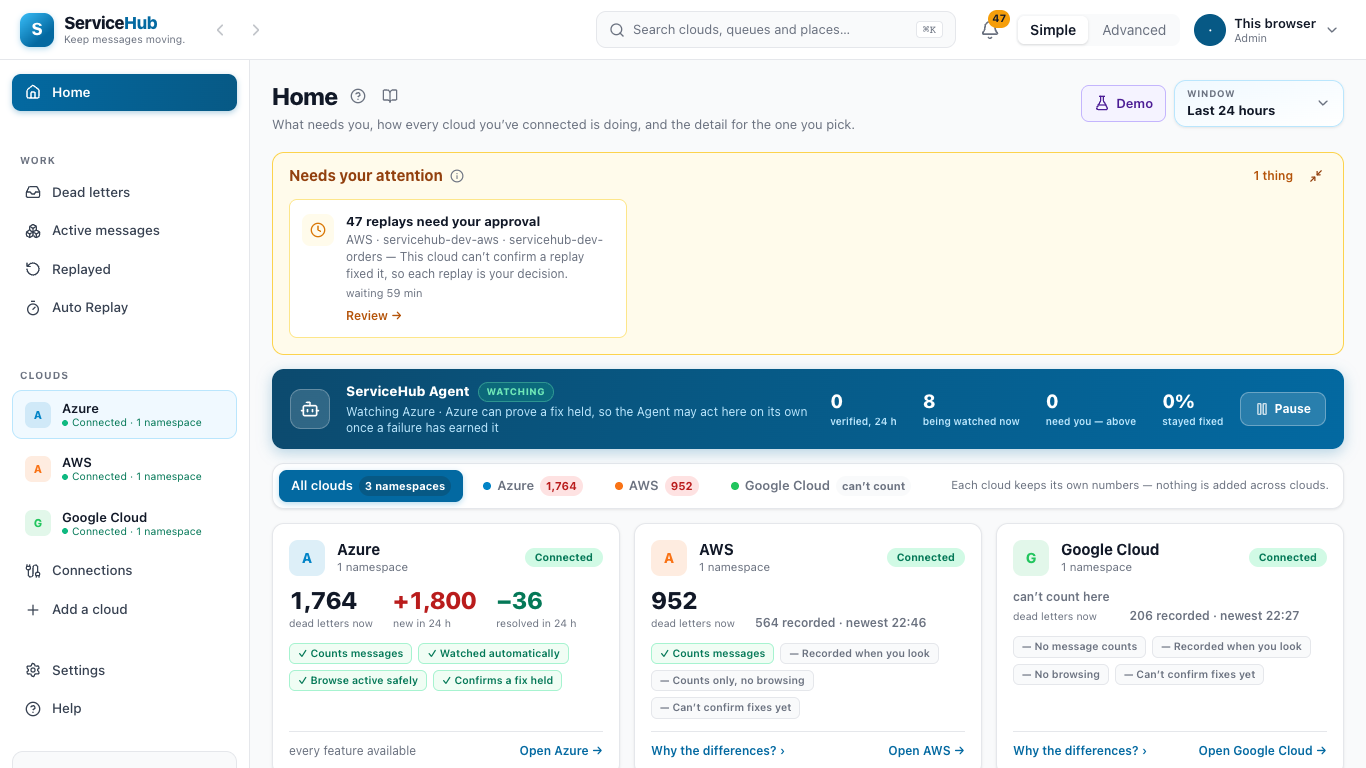
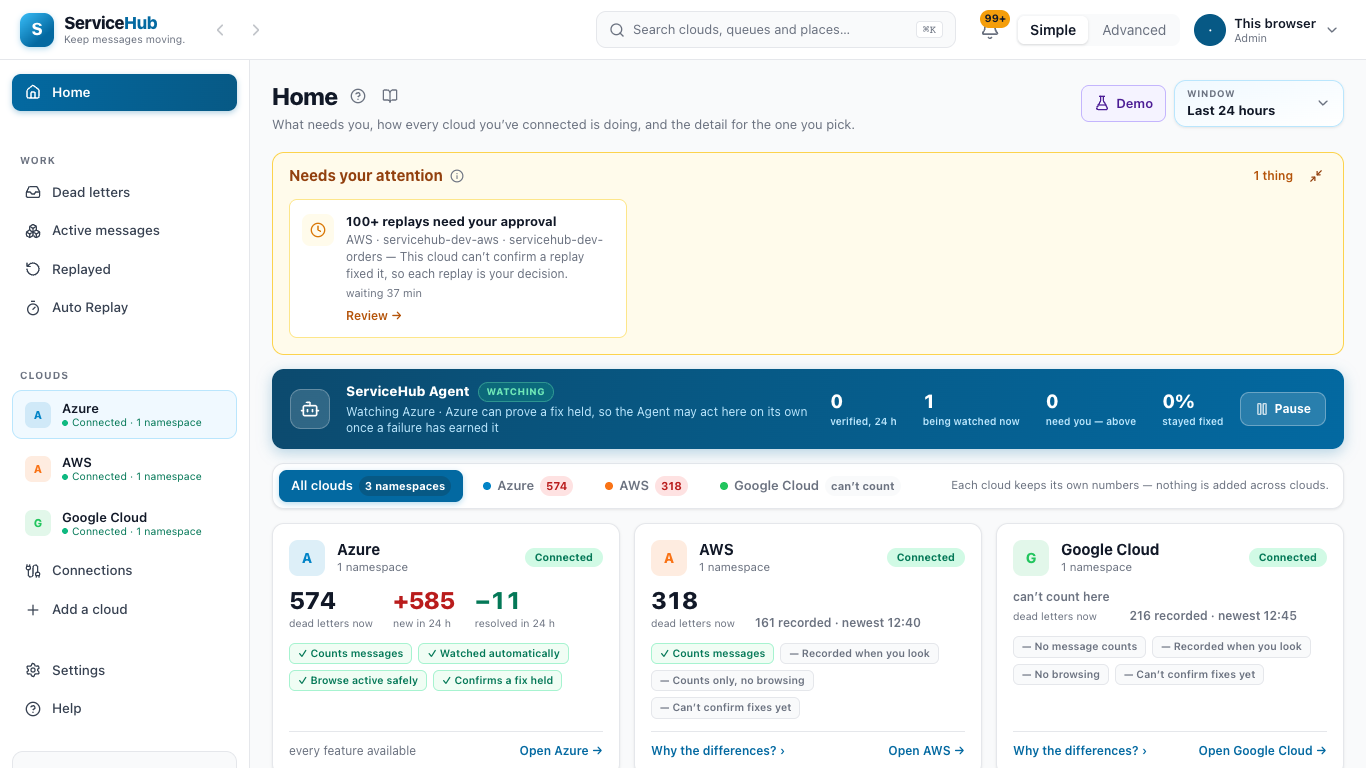
feat: enforce intent headers for rule operations and update changelog

diff --git a/apps/servicehub/src/lib/api/rules.ts b/apps/servicehub/src/lib/api/rules.ts
@@ -1,4 +1,5 @@
 import { api } from './client'
+import { Intent, withIntent } from './intentHeaders'
 import type { CloudProvider } from './namespaces'
 
 export interface Rule {
@@ -78,11 +79,11 @@ export async function fetchRuleSources(provider: CloudProvider): Promise<RuleSou
 }
 
 export async function createRule(rule: NewRule): Promise<Rule> {
-  return (await api.post<Rule>('/rules', rule)).data
+  return (await api.post<Rule>('/rules', rule, { headers: withIntent(Intent.CreateRule) })).data
 }
 
 export async function setRuleEnabled(id: number, enabled: boolean): Promise<Rule> {
-  return (await api.post<Rule>(`/rules/${id}/enabled`, { enabled })).data
+  return (await api.post<Rule>(`/rules/${id}/enabled`, { enabled }, { headers: withIntent(Intent.SwitchRule) })).data
 }
 
 export async function testRule(rule: Pick<NewRule, 'provider' | 'reason' | 'entityName' | 'signatureHash'>): Promise<RuleTest> {
@@ -91,12 +92,12 @@ export async function testRule(rule: Pick<NewRule, 'provider' | 'reason' | 'enti
 
 /** Name and pace only — what a rule matches never changes; a different failure is a new rule. */
 export async function updateRule(id: number, rule: Pick<NewRule, 'name' | 'maxPerHour' | 'waitSeconds' | 'backOff'>): Promise<Rule> {
-  return (await api.put<Rule>(`/rules/${id}`, rule)).data
+  return (await api.put<Rule>(`/rules/${id}`, rule, { headers: withIntent(Intent.UpdateRule) })).data
 }
 
 /** Deletes the rule. What it replayed stays in the ledger and the replay history. */
 export async function deleteRule(id: number): Promise<void> {
-  await api.delete(`/rules/${id}`)
+  await api.delete(`/rules/${id}`, { headers: withIntent(Intent.DeleteRule) })
 }
 
 /** The dead letters the rule matches right now and that are still waiting. Sends nothing. */
@@ -106,5 +107,5 @@ export async function fetchRuleMatches(id: number): Promise<number[]> {
 
 /** Makes rules for the most common failures no rule covers yet. Returns the rules it made. */
 export async function generateRules(provider: CloudProvider, max = 5): Promise<Rule[]> {
-  return (await api.post<Rule[]>('/rules/generate', { provider, max })).data
+  return (await api.post<Rule[]>('/rules/generate', { provider, max }, { headers: withIntent(Intent.GenerateRules) })).data
 }

diff --git a/tests/web/unit/lib/api/contract.test.ts b/tests/web/unit/lib/api/contract.test.ts
@@ -115,6 +115,11 @@ describe('changes carry the intent header the API demands', () => {
     ['purge', () => replay.purgeMessage(5, 'dup'), 'POST', '/dead-letters/5/purge'],
     ['switch on fix confirmation', () => namespaces.configureDlqObserver('n1', { enabled: true }), 'PUT', '/namespaces/n1/dlq-observer'],
     ['check fix confirmation', () => namespaces.checkDlqObserver('n1'), 'POST', '/namespaces/n1/dlq-observer/check'],
+    ['make rule', () => rules.createRule({ provider: 'azure', name: 'r' } as never), 'POST', '/rules'],
+    ['switch rule', () => rules.setRuleEnabled(3, false), 'POST', '/rules/3/enabled'],
+    ['change rule', () => rules.updateRule(3, { name: 'n', maxPerHour: 5, waitSeconds: 60, backOff: true }), 'PUT', '/rules/3'],
+    ['delete rule', () => rules.deleteRule(3), 'DELETE', '/rules/3'],
+    ['make rules', () => rules.generateRules('gcp'), 'POST', '/rules/generate'],
   ]
   it.each(changes)('%s → %s with an intent', async (_name, call, method, url) => {
     await call()

diff --git a/apps/servicehub/src/lib/api/intentHeaders.ts b/apps/servicehub/src/lib/api/intentHeaders.ts
@@ -31,6 +31,11 @@ export const Intent = {
   GrantRole: 'grant-role',
   RevokeRole: 'revoke-role',
   ConfigureDlqObserver: 'configure-dlq-observer',
+  CreateRule: 'create-rule',
+  GenerateRules: 'generate-rules',
+  SwitchRule: 'switch-rule',
+  UpdateRule: 'update-rule',
+  DeleteRule: 'delete-rule',
 } as const
 
 export type IntentValue = (typeof Intent)[keyof typeof Intent]

diff --git a/tests/backend/ServiceHub.IntegrationTests/RulesApiTests.cs b/tests/backend/ServiceHub.IntegrationTests/RulesApiTests.cs
@@ -18,9 +18,25 @@ public sealed class RulesApiTests : IDisposable
 
     public void Dispose() => Environment.SetEnvironmentVariable("RecoveryEvidence__CircuitBreakerSampleSize", null);
 
+    /// <summary>The intent header each rule write must carry (the route says which).</summary>
+    private static string? IntentFor(HttpMethod method, string url)
+    {
+        if (url.EndsWith("/test", StringComparison.Ordinal)) return null;
+        if (url.EndsWith("/generate", StringComparison.Ordinal)) return "generate-rules";
+        if (url.EndsWith("/enabled", StringComparison.Ordinal)) return "switch-rule";
+        return method.Method switch { "POST" => "create-rule", "PUT" => "update-rule", "DELETE" => "delete-rule", _ => null };
+    }
+
+    private static Task<HttpResponseMessage> Call(HttpClient client, HttpMethod method, string url, object? body = null)
+    {
+        var request = new HttpRequestMessage(method, url) { Content = body is null ? null : JsonContent.Create(body) };
+        if (IntentFor(method, url) is { } intent) request.Headers.Add("X-ServiceHub-Intent", intent);
+        return client.SendAsync(request);
+    }
+
     private static async Task<JsonElement> Send(HttpClient client, string url, object body, HttpStatusCode expected = HttpStatusCode.OK)
     {
-        var response = await client.PostAsJsonAsync(url, body);
+        var response = await Call(client, HttpMethod.Post, url, body);
         response.StatusCode.Should().Be(expected, await response.Content.ReadAsStringAsync());
         return JsonDocument.Parse(await response.Content.ReadAsStringAsync()).RootElement;
     }
@@ -68,7 +84,7 @@ public sealed class RulesApiTests : IDisposable
         var made = await Send(host.Client, "/api/v1/rules", new { provider = "azure", name = "Audit me", reason = "Timeout" }, HttpStatusCode.Created);
         var id = made.GetProperty("id").GetInt64();
         await Send(host.Client, $"/api/v1/rules/{id}/enabled", new { enabled = false });
-        (await host.Client.DeleteAsync($"/api/v1/rules/{id}")).StatusCode.Should().Be(HttpStatusCode.NoContent);
+        (await Call(host.Client, HttpMethod.Delete, $"/api/v1/rules/{id}")).StatusCode.Should().Be(HttpStatusCode.NoContent);
 
         var audit = JsonDocument.Parse(await host.Client.GetStringAsync("/api/v1/audit?pageSize=50")).RootElement.GetProperty("items")
             .EnumerateArray().Where(e => e.GetProperty("action").GetString()!.StartsWith("Rule.", StringComparison.Ordinal)).ToList();
@@ -318,7 +334,7 @@ public sealed class RulesApiTests : IDisposable
         var made = await Send(host.Client, "/api/v1/rules", new { provider = "azure", name = "Timeouts", reason = "Timeout", entityName = "orders" }, HttpStatusCode.Created);
         var id = made.GetProperty("id").GetInt64();
 
-        var response = await host.Client.PutAsJsonAsync($"/api/v1/rules/{id}", new { name = "Order timeouts", maxPerHour = 3, waitSeconds = 600, backOff = false });
+        var response = await Call(host.Client, HttpMethod.Put, $"/api/v1/rules/{id}", new { name = "Order timeouts", maxPerHour = 3, waitSeconds = 600, backOff = false });
         response.StatusCode.Should().Be(HttpStatusCode.OK);
         var rule = JsonDocument.Parse(await response.Content.ReadAsStringAsync()).RootElement;
         rule.GetProperty("name").GetString().Should().Be("Order timeouts");
@@ -328,9 +344,9 @@ public sealed class RulesApiTests : IDisposable
         rule.GetProperty("reason").GetString().Should().Be("Timeout");
         rule.GetProperty("entityName").GetString().Should().Be("orders");
 
-        (await host.Client.PutAsJsonAsync($"/api/v1/rules/{id}", new { name = "", maxPerHour = 3 })).StatusCode.Should().Be(HttpStatusCode.BadRequest);
-        (await host.Client.PutAsJsonAsync($"/api/v1/rules/{id}", new { name = "x", maxPerHour = 0 })).StatusCode.Should().Be(HttpStatusCode.BadRequest);
-        (await host.Client.PutAsJsonAsync("/api/v1/rules/999", new { name = "x" })).StatusCode.Should().Be(HttpStatusCode.NotFound);
+        (await Call(host.Client, HttpMethod.Put, $"/api/v1/rules/{id}", new { name = "", maxPerHour = 3 })).StatusCode.Should().Be(HttpStatusCode.BadRequest);
+        (await Call(host.Client, HttpMethod.Put, $"/api/v1/rules/{id}", new { name = "x", maxPerHour = 0 })).StatusCode.Should().Be(HttpStatusCode.BadRequest);
+        (await Call(host.Client, HttpMethod.Put, "/api/v1/rules/999", new { name = "x" })).StatusCode.Should().Be(HttpStatusCode.NotFound);
     }
 
     [Fact]
@@ -340,9 +356,9 @@ public sealed class RulesApiTests : IDisposable
         var made = await Send(host.Client, "/api/v1/rules", new { provider = "azure", name = "Timeouts", reason = "Timeout" }, HttpStatusCode.Created);
         var id = made.GetProperty("id").GetInt64();
 
-        (await host.Client.DeleteAsync($"/api/v1/rules/{id}")).StatusCode.Should().Be(HttpStatusCode.NoContent);
+        (await Call(host.Client, HttpMethod.Delete, $"/api/v1/rules/{id}")).StatusCode.Should().Be(HttpStatusCode.NoContent);
         (await ListRules(host.Client)).GetArrayLength().Should().Be(0);
-        (await host.Client.DeleteAsync($"/api/v1/rules/{id}")).StatusCode.Should().Be(HttpStatusCode.NotFound);
+        (await Call(host.Client, HttpMethod.Delete, $"/api/v1/rules/{id}")).StatusCode.Should().Be(HttpStatusCode.NotFound);
     }
 
     [Fact]
@@ -370,5 +386,32 @@ public sealed class RulesApiTests : IDisposable
         await Send(host.Client, "/api/v1/rules/generate", new { }, HttpStatusCode.BadRequest);
         var made = await Send(host.Client, "/api/v1/rules/generate", new { provider = "azure" });
         made.GetArrayLength().Should().Be(0);
+    }
+
+    /// <summary>
+    /// Found live 2026-10-10: a bare <c>DELETE /api/v1/rules/1</c> (no header) deleted a rule — every other state-changing route asks for
+    /// <c>X-ServiceHub-Intent</c>, and these were the only ones that did not. Each rule write now refuses a request that did not say it meant it.
+    /// </summary>
+    [Fact]
+    public async Task A_rule_cannot_be_made_switched_changed_or_deleted_without_saying_so()
+    {
+        using var host = DeadLettersApiTests.Host(new PeekLog(), new PeekLog());
+        await DeadLettersApiTests.Connect(host.Client, "azure");
+        var made = await Send(host.Client, "/api/v1/rules", new { provider = "azure", name = "Keep me", reason = "Timeout" }, HttpStatusCode.Created);
+        var id = made.GetProperty("id").GetInt64();
+
+        async Task<HttpStatusCode> Bare(HttpMethod method, string url, object? body = null) =>
+            (await host.Client.SendAsync(new HttpRequestMessage(method, url) { Content = body is null ? null : JsonContent.Create(body) })).StatusCode;
+
+        (await Bare(HttpMethod.Delete, $"/api/v1/rules/{id}")).Should().Be(HttpStatusCode.PreconditionRequired);
+        (await Bare(HttpMethod.Post, $"/api/v1/rules/{id}/enabled", new { enabled = false })).Should().Be(HttpStatusCode.PreconditionRequired);
+        (await Bare(HttpMethod.Put, $"/api/v1/rules/{id}", new { name = "Renamed", maxPerHour = 3 })).Should().Be(HttpStatusCode.PreconditionRequired);
+        (await Bare(HttpMethod.Post, "/api/v1/rules", new { provider = "azure", name = "Another", reason = "Timeout" })).Should().Be(HttpStatusCode.PreconditionRequired);
+        (await Bare(HttpMethod.Post, "/api/v1/rules/generate", new { provider = "azure" })).Should().Be(HttpStatusCode.PreconditionRequired);
+
+        var rules = await ListRules(host.Client);
+        rules.GetArrayLength().Should().Be(1, "nothing was made or deleted");
+        rules[0].GetProperty("name").GetString().Should().Be("Keep me");
+        rules[0].GetProperty("enabled").GetBoolean().Should().BeTrue();
     }
 }

diff --git a/services/api/src/ServiceHub.Api/Controllers/V1/RulesController.cs b/services/api/src/ServiceHub.Api/Controllers/V1/RulesController.cs
@@ -1,4 +1,5 @@
 using Microsoft.AspNetCore.Mvc;
+using ServiceHub.Api.Security;
 using ServiceHub.Core.Constants;
 using ServiceHub.Core.Entities;
 using ServiceHub.Core.Enums;
@@ -54,6 +55,12 @@ public sealed class RulesController : ApiControllerBase
     public async Task<IActionResult> Held([FromQuery] CloudProviderType? provider, CancellationToken cancellationToken) =>
         provider is { } cloud ? Ok(await _rules.HeldAsync(OwnerId, AllowedNamespaceIds, cloud, cancellationToken)) : NeedsCloud();
 
+    // Making, switching, changing or deleting a rule decides what a machine may replay, so it must be meant — a stray DELETE (a pasted URL, a script) is refused.
+    private ObjectResult? NeedsIntent(string intent, string words) =>
+        IntentHeaders.Declares(Request, intent)
+            ? null
+            : Problem(StatusCodes.Status428PreconditionRequired, ErrorCodes.IntentRequired, IntentHeaders.MissingDetail(words, intent));
+
     // A rule belongs to one cloud, and an enum left out would quietly mean the first one — so a missing cloud is refused, never defaulted.
     private ObjectResult NeedsCloud() => Problem(StatusCodes.Status400BadRequest, ErrorCodes.ValidationFailed, "Say which cloud: give a 'provider'.");
 
@@ -63,6 +70,7 @@ public sealed class RulesController : ApiControllerBase
     [ProducesResponseType(typeof(ProblemDetails), StatusCodes.Status400BadRequest)]
     public async Task<IActionResult> Create([FromBody] CreateRuleRequest request, CancellationToken cancellationToken)
     {
+        if (NeedsIntent(IntentHeaders.CreateRule, "make an auto-replay rule") is { } missing) return missing;
         if (request.Provider is not { } cloud)
         {
             return NeedsCloud();
@@ -83,6 +91,7 @@ public sealed class RulesController : ApiControllerBase
     [ProducesResponseType(typeof(ProblemDetails), StatusCodes.Status404NotFound)]
     public async Task<IActionResult> SetEnabled(long id, [FromBody] EnabledRequest request, CancellationToken cancellationToken)
     {
+        if (NeedsIntent(IntentHeaders.SwitchRule, "switch an auto-replay rule on or off") is { } missing) return missing;
         // Switching a rule on hands a machine the right to replay: an Approver's call. Switching it off only takes that away.
         if (await DeniedUnlessAsync(request.Enabled ? GovernanceRole.Approver : GovernanceRole.Operator, null, PillarKind.Recover,
                 request.Enabled ? "switch an auto-replay rule on" : "switch an auto-replay rule off", cancellationToken) is { } denied) return denied;
@@ -97,6 +106,7 @@ public sealed class RulesController : ApiControllerBase
     [ProducesResponseType(typeof(ProblemDetails), StatusCodes.Status404NotFound)]
     public async Task<IActionResult> Update(long id, [FromBody] UpdateRuleRequest request, CancellationToken cancellationToken)
     {
+        if (NeedsIntent(IntentHeaders.UpdateRule, "change an auto-replay rule") is { } missing) return missing;
         if (await DeniedUnlessAsync(GovernanceRole.Approver, null, PillarKind.Recover, "change an auto-replay rule", cancellationToken) is { } denied) return denied;
         var result = await _rules.UpdateAsync(OwnerId, id, request.Name, request.MaxPerHour ?? 10, request.WaitSeconds ?? 120, request.BackOff ?? true, cancellationToken);
         await AuditAsync(AuditActions.RuleUpdate, $"{id} · {request.Name}", result.IsSuccess, cancellationToken);
@@ -109,6 +119,7 @@ public sealed class RulesController : ApiControllerBase
     [ProducesResponseType(typeof(ProblemDetails), StatusCodes.Status404NotFound)]
     public async Task<IActionResult> Delete(long id, CancellationToken cancellationToken)
     {
+        if (NeedsIntent(IntentHeaders.DeleteRule, "delete an auto-replay rule") is { } missing) return missing;
         if (await DeniedUnlessAsync(GovernanceRole.Operator, null, PillarKind.Recover, "delete an auto-replay rule", cancellationToken) is { } denied) return denied;
         var result = await _rules.DeleteAsync(OwnerId, id, cancellationToken);
         await AuditAsync(AuditActions.RuleDelete, id.ToString(System.Globalization.CultureInfo.InvariantCulture), result.IsSuccess, cancellationToken);
@@ -131,6 +142,7 @@ public sealed class RulesController : ApiControllerBase
     [ProducesResponseType(typeof(ProblemDetails), StatusCodes.Status400BadRequest)]
     public async Task<IActionResult> Generate([FromBody] GenerateRulesRequest request, CancellationToken cancellationToken)
     {
+        if (NeedsIntent(IntentHeaders.GenerateRules, "make auto-replay rules") is { } missing) return missing;
         if (request.Provider is not { } cloud)
         {
             return NeedsCloud();

diff --git a/tests/backend/ServiceHub.IntegrationTests/GovernanceApiTests.cs b/tests/backend/ServiceHub.IntegrationTests/GovernanceApiTests.cs
@@ -143,22 +143,22 @@ public sealed class GovernanceApiTests
         await Grant("viewer", "Viewer", "lead-key-value");
         await Grant("operator", "Operator", "lead-key-value");
 
-        var made = await host.Client.SendAsync(Req(HttpMethod.Post, "/api/v1/rules", "lead-key-value", null, new { provider = "azure", name = "Timeouts", reason = "Timeout" }));
+        var made = await host.Client.SendAsync(Req(HttpMethod.Post, "/api/v1/rules", "lead-key-value", "create-rule", new { provider = "azure", name = "Timeouts", reason = "Timeout" }));
         made.StatusCode.Should().Be(HttpStatusCode.Created,await made.Content.ReadAsStringAsync());
         var ruleId = (await Json(made)).GetProperty("id").GetInt64();
         var edit = new { name = "Renamed", maxPerHour = 500, waitSeconds = 0, backOff = false };
 
         foreach (var who in new[] { "viewer-key-value", "operator-key-value" })
         {
-            (await host.Client.SendAsync(Req(HttpMethod.Put, $"/api/v1/rules/{ruleId}", who, null, edit))).StatusCode.Should().Be(HttpStatusCode.Forbidden, $"{who} may not raise a rule's pace");
-            (await host.Client.SendAsync(Req(HttpMethod.Post, "/api/v1/rules/generate", who, null, new { provider = "azure" }))).StatusCode.Should().Be(HttpStatusCode.Forbidden, $"{who} may not make rules");
+            (await host.Client.SendAsync(Req(HttpMethod.Put, $"/api/v1/rules/{ruleId}", who, "update-rule", edit))).StatusCode.Should().Be(HttpStatusCode.Forbidden, $"{who} may not raise a rule's pace");
+            (await host.Client.SendAsync(Req(HttpMethod.Post, "/api/v1/rules/generate", who, "generate-rules", new { provider = "azure" }))).StatusCode.Should().Be(HttpStatusCode.Forbidden, $"{who} may not make rules");
         }
 
-        (await host.Client.SendAsync(Req(HttpMethod.Delete, $"/api/v1/rules/{ruleId}", "viewer-key-value"))).StatusCode.Should().Be(HttpStatusCode.Forbidden);
+        (await host.Client.SendAsync(Req(HttpMethod.Delete, $"/api/v1/rules/{ruleId}", "viewer-key-value", "delete-rule"))).StatusCode.Should().Be(HttpStatusCode.Forbidden);
         var untouched = await Json(await host.Client.SendAsync(Req(HttpMethod.Get, "/api/v1/rules?provider=azure", "lead-key-value")));
         untouched.EnumerateArray().Single().GetProperty("name").GetString().Should().Be("Timeouts", "refused edits change nothing");
 
-        (await host.Client.SendAsync(Req(HttpMethod.Put, $"/api/v1/rules/{ruleId}", "lead-key-value", null, edit))).StatusCode.Should().Be(HttpStatusCode.OK);
-        (await host.Client.SendAsync(Req(HttpMethod.Delete, $"/api/v1/rules/{ruleId}", "operator-key-value"))).StatusCode.Should().Be(HttpStatusCode.NoContent, "deleting only takes authority away");
+        (await host.Client.SendAsync(Req(HttpMethod.Put, $"/api/v1/rules/{ruleId}", "lead-key-value", "update-rule", edit))).StatusCode.Should().Be(HttpStatusCode.OK);
+        (await host.Client.SendAsync(Req(HttpMethod.Delete, $"/api/v1/rules/{ruleId}", "operator-key-value", "delete-rule"))).StatusCode.Should().Be(HttpStatusCode.NoContent, "deleting only takes authority away");
     }
 }

diff --git a/services/api/src/ServiceHub.Api/Security/IntentHeaders.cs b/services/api/src/ServiceHub.Api/Security/IntentHeaders.cs
@@ -73,6 +73,21 @@ public static class IntentHeaders
     /// <summary>Intent for staging a backup to be restored at the next start.</summary>
     public const string RestoreBackup = "restore-backup";
 
+    /// <summary>Intent for making an Auto Replay rule — it starts on, so it hands a machine the right to replay.</summary>
+    public const string CreateRule = "create-rule";
+
+    /// <summary>Intent for making Auto Replay rules for the most common failures, each starting on.</summary>
+    public const string GenerateRules = "generate-rules";
+
+    /// <summary>Intent for switching an Auto Replay rule on or off.</summary>
+    public const string SwitchRule = "switch-rule";
+
+    /// <summary>Intent for changing an Auto Replay rule's name and pace.</summary>
+    public const string UpdateRule = "update-rule";
+
+    /// <summary>Intent for deleting an Auto Replay rule.</summary>
+    public const string DeleteRule = "delete-rule";
+
     /// <summary>Whether the request declared exactly <paramref name="expected"/>.</summary>
     public static bool Declares(HttpRequest request, string expected)
     {

diff --git a/tests/backend/ServiceHub.IntegrationTests/PendingWorkApiTests.cs b/tests/backend/ServiceHub.IntegrationTests/PendingWorkApiTests.cs
@@ -114,8 +114,11 @@ public sealed class PendingWorkApiTests
         await RunAutoReplay(host);
 
         var page = await Json(await host.Client.GetAsync("/api/v1/pending-work?limit=500"));
-        page.GetProperty("total").GetInt32().Should().Be(505);
-        page.GetProperty("items").GetArrayLength().Should().Be(500);
+        // A stopped agent is pending work too (sorted first), and on a loaded machine seeding 505 rows can take long enough
+        // for an agent to count as late — so count the approvals, not everything that is waiting.
+        var items = page.GetProperty("items").EnumerateArray().ToList();
+        page.GetProperty("total").GetInt32().Should().Be(505 + items.Count(i => i.GetProperty("kind").GetString() != "approval"));
+        items.Count.Should().Be(500);
         var shown = page.GetProperty("items").EnumerateArray().Select(i => i.GetProperty("entryId").GetGuid()).ToHashSet();
 
         using var scope = host.Services.CreateScope();

diff --git a/CHANGELOG.md b/CHANGELOG.md
@@ -65,6 +65,13 @@ The last planned release of ServiceHub. Development stops after 4.2.0.
 
 ### Fixed
 
+- **Auto Replay rules could be deleted, switched or changed by a bare request.** Every other action that changes something asks the caller to say it
+  meant it (the `X-ServiceHub-Intent` header), but making, switching on or off, changing, deleting and generating rules did not — found in the final
+  live pass, when a stray `DELETE /api/v1/rules/1` removed a rule with no confirmation. Those five actions now answer `428 intent_required` and name the
+  header (`create-rule`, `switch-rule`, `update-rule`, `delete-rule`, `generate-rules`); the app sends them, so nothing changes on screen. Anything
+  that called these routes directly must add the header.
+- **A flaky test, not a product fault.** `A_question_beyond_the_lists_cap_can_still_be_answered` counted a stopped agent as an approval on a loaded
+  machine; it now counts approvals only.
 - **A stuck agent no longer stays stuck.** A cycle that never came back (a network connection that died while the machine slept) froze its agent
   until the next restart — the Dead-letter Monitor and Recovery Verification both stopped for good in a live run. A cycle is now abandoned after
   10 minutes, recorded as a failure, and the agent runs again.
